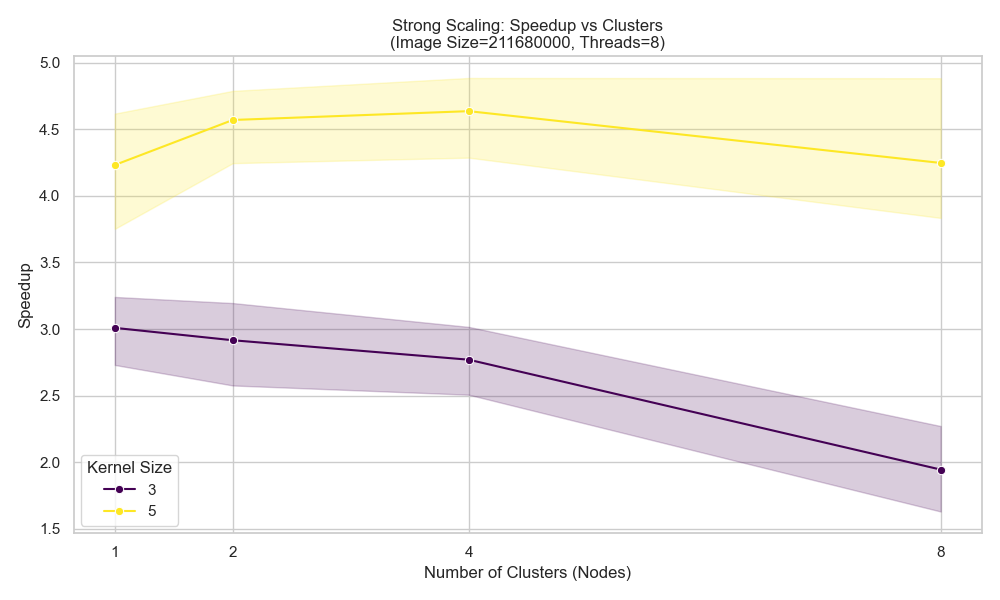
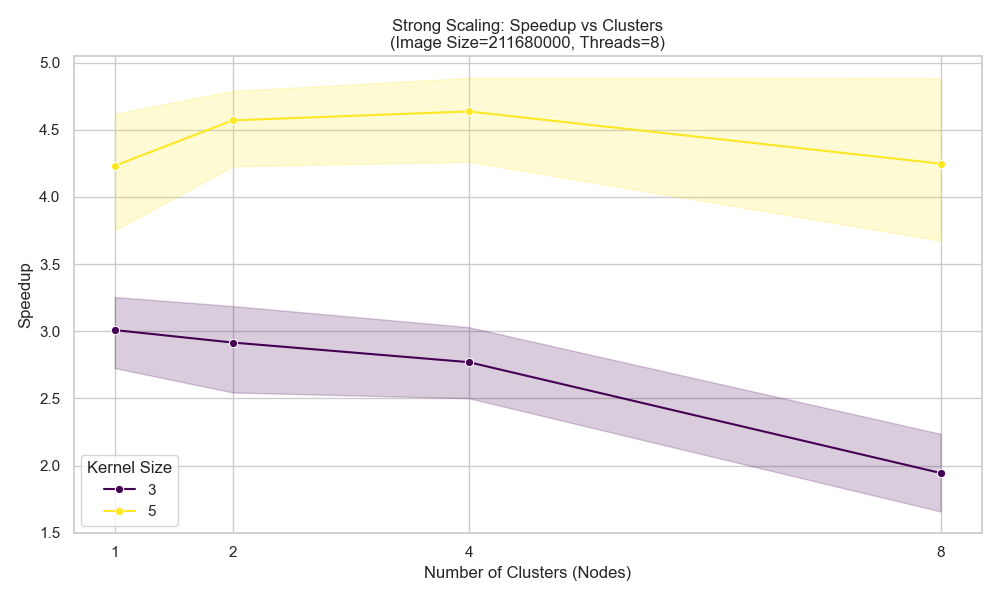
Refactor speedup plots and update dependencies
Refactored plot_speedup_vs_size to group by clusters and threads, generating one plot per configuration with subplots for each kernel size. Updated and removed speedup plot images to match new logic. Bumped project version to 0.9.5 and replaced seaborn-stubs with types-seaborn in dependencies.

diff --git a/visualization/src/plots.py b/visualization/src/plots.py
@@ -8,31 +8,49 @@ sns.set_theme(style="whitegrid")
 def plot_speedup_vs_size(df, output_dir):
     """Speedup vs Image Size (Pixel Count) for specific configurations"""
     print("Plotting Speedup vs Image Size...")
-    combinations = df[["Clusters", "Threads", "Kernel Size"]].drop_duplicates().values
+    # Group by Cluster and Threads, disregarding Kernel Size for the loop
+    combinations = df[["Clusters", "Threads"]].drop_duplicates().values
 
-    for cluster, thread, k_size in combinations:
-        subset = df[
-            (df["Clusters"] == cluster)
-            & (df["Threads"] == thread)
-            & (df["Kernel Size"] == k_size)
-        ]
+    for cluster, thread in combinations:
+        subset_base = df[(df["Clusters"] == cluster) & (df["Threads"] == thread)]
 
-        if subset.empty:
+        # Get unique kernel sizes for this configuration
+        kernel_sizes = sorted(subset_base["Kernel Size"].unique())
+
+        if len(kernel_sizes) == 0:
             continue
 
-        plt.figure(figsize=(10, 6))
-        sns.lineplot(
-            data=subset, x="Pixel Count", y="Speedup", hue="Implementation", marker="o"
-        )
-        plt.title(
-            f"Speedup vs Image Size\n(Clusters={cluster}, Threads={thread}, Kernel={k_size})"
-        )
-        plt.xscale("log")  # Image sizes often spans orders of magnitude
-        plt.ylabel("Speedup (vs Serial)")
-        plt.xlabel("Pixel Count")
+        # Create subplots
+        fig, axes = plt.subplots(1, len(kernel_sizes), figsize=(12, 6), sharey=True)
+
+        # Ensure axes is iterable if there's only one kernel size
+        if len(kernel_sizes) == 1:
+            axes = [axes]
+
+        for ax, k_size in zip(axes, kernel_sizes):
+            subset = subset_base[subset_base["Kernel Size"] == k_size]
+
+            sns.lineplot(
+                data=subset,
+                x="Pixel Count",
+                y="Speedup",
+                hue="Implementation",
+                marker="o",
+                ax=ax,
+            )
+
+            ax.set_title(f"Kernel Size = {k_size}")
+            ax.set_xscale("log")  # Image sizes often spans orders of magnitude
+            ax.set_xlabel("Pixel Count")
+            ax.grid(True)
+
+        # Set shared y-label on the first subplot
+        axes[0].set_ylabel("Speedup (vs Serial)")
+
+        plt.suptitle(f"Speedup vs Image Size\n(Clusters={cluster}, Threads={thread})")
         plt.tight_layout()
 
-        filename = f"speedup_size_C{cluster}_T{thread}_K{k_size}.png"
+        filename = f"speedup_size_C{cluster}_T{thread}.png"
         plt.savefig(output_dir / filename)
         plt.close()
 

diff --git a/visualization/main.py b/visualization/main.py
@@ -1,7 +1,7 @@
 import argparse
 from pathlib import Path
-from data import load_data, preprocess_data
-from plots import (
+from src.data import load_data, preprocess_data
+from src.plots import (
     plot_speedup_vs_size,
     plot_strong_scaling_threads,
     plot_strong_scaling_clusters,
